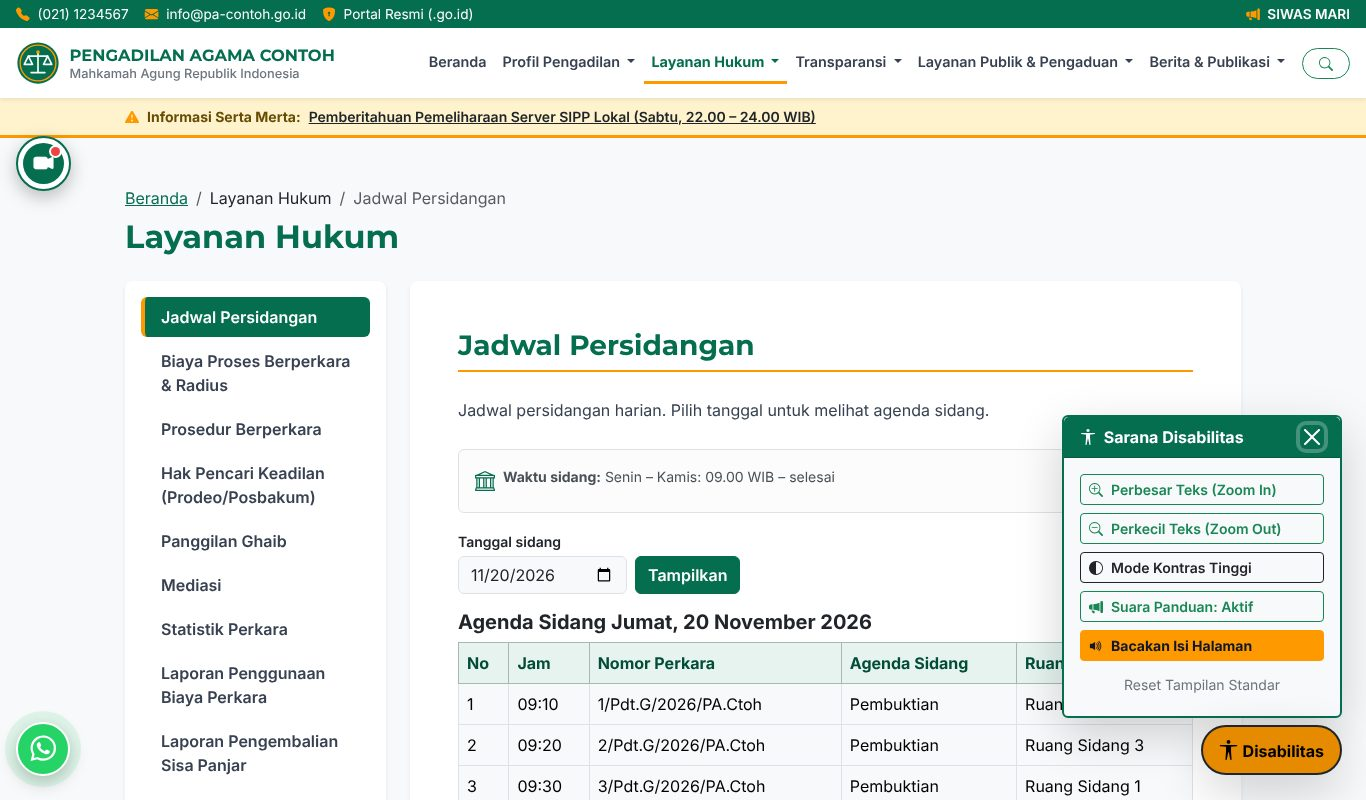
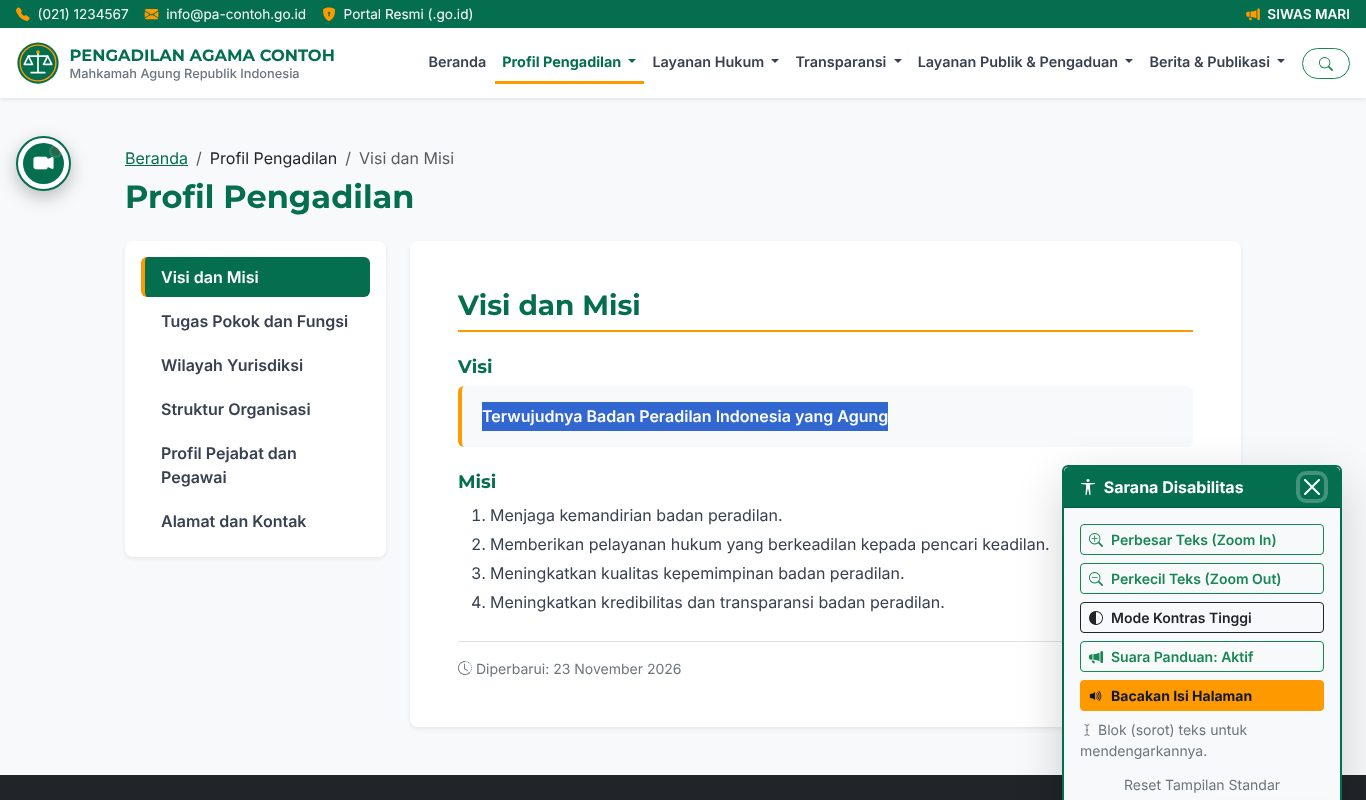
docs(panduan): perbarui manual book — Panggilan Ghaib dua tabel, Integrasi SIPP (relaas, kirim yang berubah, Task Scheduler), GIF 100 MB, blok teks dibacakan; tangkapan layar baru
Claude-Session: https://claude.ai/code/session_01A5ktk2fXRbeWj4BHQvZnb4

diff --git a/app/Views/admin/guide.php b/app/Views/admin/guide.php
@@ -401,10 +401,20 @@ $site = esc(setting('site_name', 'Pengadilan Agama'));
         </tbody>
     </table></div>
     <?= $img('09-arsip-dokumen.jpg', 'Daftar Arsip Dokumen dengan pencarian dan saringan jenis.') ?>
+    <h3 id="panggilan-ghaib">Panggilan Ghaib</h3>
+    <p>Halaman Panggilan Ghaib menampilkan dua tabel:</p>
+    <ol>
+        <li><strong>Panggilan Sidang (Perkara Belum Putus)</strong>: nama pihak, nomor perkara, tanggal sidang, dan tombol <em>Lihat Relaas (PDF)</em>. Baris otomatis tidak tampil 7 hari setelah tanggal sidang.</li>
+        <li><strong>Perkara Ghaib yang Sudah Putus</strong>: perkara yang sudah diputus, dengan tanggal putus dan relaasnya, tampil selama 1 tahun sejak tanggal putus. Tabel ini hanya muncul bila ada isinya.</li>
+    </ol>
+    <?= $img('13-panggilan-ghaib.jpg', 'Halaman Panggilan Ghaib: tabel panggilan sidang dan tabel perkara yang sudah putus.') ?>
+    <p>Mengisi manual: <em>Kepaniteraan → Panggilan Ghaib → Tambah</em>. Isi nama pihak, nomor perkara, tanggal sidang, dan unggah relaas PDF. Bila perkara sudah diputus, isi <strong>Tanggal Putus</strong>; barisnya pindah ke tabel Sudah Putus dan tidak lagi tampil di blok Pengumuman Beranda.</p>
+    <?= $img('13-ghaib-admin.jpg', 'Form Panggilan Ghaib dengan isian Tanggal Putus.') ?>
+    <?= $tip('Bila Integrasi SIPP aktif, perkara ghaib (belum putus maupun sudah putus) beserta relaasnya terisi otomatis dari SIPP. Lihat <a href="#integrasi-sipp">Integrasi SIPP</a>. Relaas yang Anda unggah manual tidak pernah ditimpa.') ?>
     <ul>
-        <li>PDF maks. <strong>20 MB</strong>, gambar maks. 8 MB. Berkas lebih besar: pakai <strong>Tautan Luar</strong> Google Drive.</li>
+        <li>PDF maks. <strong>20 MB</strong>, gambar JPG/PNG/WebP maks. 8 MB, GIF bergerak maks. 100 MB. Berkas lebih besar: pakai <strong>Tautan Luar</strong> Google Drive.</li>
         <li>Laporan bulanan wajib diisi <strong>Bulan</strong>; dokumen 5 tahunan diisi setiap tahun.</li>
-        <li>Jadwal sidang bisa diambil dari database SIPP (Pengaturan → Tautan Layanan).</li>
+        <li>Jadwal sidang, statistik perkara, dan panggilan ghaib bisa terisi otomatis dari SIPP (<a href="#integrasi-sipp">Integrasi SIPP</a>).</li>
         <li>Pengaduan/hukuman disiplin memakai <strong>inisial</strong>.</li>
     </ul>
     <?= $go('data/dokumen', 'Buka Arsip Dokumen') ?>
@@ -451,6 +461,7 @@ $site = esc(setting('site_name', 'Pengadilan Agama'));
             <tr><td>Panggilan ghaib (belum putus &amp; sudah putus)</td><td>Menu & halaman Panggilan Ghaib serta blok Pengumuman. Perkara yang sudah putus pindah ke tabel <em>Perkara Ghaib yang Sudah Putus</em> (tampil 1 tahun sejak tanggal putus). <strong>Relaas (PDF) terbaru Tergugat/Termohon ikut dikirim</strong> dari folder dokumen SIPP dan tampil sebagai tombol <em>Lihat Relaas (PDF)</em>.</td></tr>
         </tbody>
     </table></div>
+    <?= $img('14-integrasi-sipp.jpg', 'Tab Integrasi SIPP: unduh aplikasi kantor, pilihan data otomatis, dan tabel Kiriman terakhir.') ?>
     <h4 class="h6 fw-bold mt-3">Memasang (cara termudah)</h4>
     <ol>
         <li>Website: <em>Sistem → Pengaturan → Integrasi SIPP</em> (Super Admin) → klik <strong>Unduh SIPP API Kantor</strong>. Paket zip yang terunduh <strong>sudah berisi alamat &amp; kunci website ini</strong>, dan Integrasi SIPP otomatis diaktifkan.</li>
@@ -460,6 +471,14 @@ $site = esc(setting('site_name', 'Pengadilan Agama'));
         <li>Aplikasi kantor <strong>hanya mengirim data yang berubah atau baru</strong>. Data yang tidak berubah tetap dikirim ulang setiap 6 jam sebagai tanda aplikasi masih berjalan; tombol <em>Kirim ulang semua</em> di dashboard kantor mengirim semuanya sekarang.</li>
         <li>Kembali ke website: tabel <strong>Kiriman terakhir</strong> di tab Integrasi SIPP menampilkan waktu diterima dan jumlah data.</li>
     </ol>
+    <?= $img('14-sipp-kantor.jpg', 'Dashboard SIPP API Kantor: hanya data yang berubah yang dikirim.') ?>
+    <h4 class="h6 fw-bold mt-3">Pengiriman otomatis tanpa membuka browser (disarankan)</h4>
+    <p>Menu <em>Mode Otomatis</em> hanya berjalan selama tab browsernya terbuka. Agar pengiriman tetap berjalan walau tidak ada yang login, jadwalkan <code>kirim.php</code> di server kantor. Perintah lengkapnya (sudah berisi lokasi PHP dan aplikasi di server itu) ada di <em>Mode Otomatis → Ingin berjalan otomatis tanpa membuka halaman?</em></p>
+    <ul>
+        <li><strong>Windows</strong>: buka Command Prompt <em>sebagai Administrator</em>, tempel perintah <code>schtasks /Create /TN "SIPP API Kantor" /SC MINUTE /MO 5 …</code> sekali saja. Tugas berjalan tiap 5 menit, juga setelah server dinyalakan ulang.</li>
+        <li><strong>Linux</strong>: tambahkan baris cron <code>*/5 * * * * php /var/www/html/sipp-api-kantor/kirim.php</code>.</li>
+        <li>Server kantor tidak memerlukan IP publik: kantor yang mengirim ke website, bukan website yang mengambil.</li>
+    </ul>
     <p class="small">Sudah memasang aplikasi kantor sebelumnya? Di dashboard kantor buka <em>Pengaturan → Website satker</em>, klik <strong>Salin</strong>, lalu tempel teksnya di kotak <strong>Tempel kunci</strong> pada tab Integrasi SIPP dan Simpan.</p>
     <h4 class="h6 fw-bold mt-3">Relaas panggilan ghaib otomatis</h4>
     <ul>
@@ -555,6 +574,10 @@ $site = esc(setting('site_name', 'Pengadilan Agama'));
             ['Banner ucapan tidak tampil di Beranda', 'Pastikan banner berstatus Tampilkan, jenisnya sesuai dengan pilihan <em>Kolom yang ditampilkan</em> di tampilan Beranda, dan termasuk yang terbaru sesuai <em>Banner per kolom</em>.'],
             ['Impor WordPress: "Kategori tidak ditemukan" atau jalur data ditutup', 'Gunakan tombol <strong>Ambil daftar kategori</strong> agar alamat kategori tepat. Bila REST API ditutup, minta pengelola website lama membukanya sementara.'],
             ['Data SIPP tidak muncul di website', 'Buka <em>Pengaturan → Integrasi SIPP</em>: pastikan <strong>Pakai data kiriman SIPP API kantor</strong> = Ya, kunci berstatus tersimpan, dan tabel Kiriman terakhir terisi. Bila belum ada kiriman, klik Kirim Semua Data Sekarang di dashboard kantor dan baca pesan galatnya.'],
+            ['Kolom Dokumen Relaas Panggilan Ghaib masih "-"', 'Relaas dikirim otomatis bila berkasnya sudah diunggah di SIPP. Pastikan Dashboard → <strong>Jalankan pembaruan</strong> sudah diklik, aplikasi kantor versi terbaru, dan dashboard kantor tidak menulis <em>folder dokumen SIPP tidak ditemukan</em>. Relaas di atas batas hosting dilewati (lihat pesan di dashboard kantor).'],
+            ['Dashboard kantor menulis "Tidak ada perubahan, tidak dikirim"', 'Itu normal: data sama dengan kiriman terakhir. Klik <strong>Kirim ulang semua</strong> bila ingin mengirim paksa.'],
+            ['GIF ditolak "mengandung kode yang tidak diperbolehkan"', 'Perbarui website (Update Website). GIF sah tidak lagi ditolak; yang ditolak hanya GIF yang disisipi kode program.'],
+            ['Pengiriman SIPP berhenti saat komputer/browser ditutup', 'Mode Otomatis butuh tab yang terbuka. Jadwalkan <code>kirim.php</code> dengan Task Scheduler/cron (lihat <a href="#integrasi-sipp">Integrasi SIPP</a>).'],
             ['Kartu Pintasan hanya 2 per baris', 'Atur <em>Kartu per baris</em> di tampilan Pintasan Layanan, perlebar kotak tampilannya, lalu tekan Ctrl+F5.'],
         ];
         foreach ($faq as $i => [$q, $a]): ?>

diff --git a/app/Controllers/Admin/Settings.php b/app/Controllers/Admin/Settings.php
@@ -57,7 +57,7 @@ class Settings extends AdminController
                 'sipp_api_aktif'     => ['Pakai data kiriman SIPP API kantor', 'select', 'Jadwal Sidang (halaman & Beranda), Statistik Perkara, dan Panggilan Ghaib diisi otomatis dari data yang dikirim aplikasi SIPP API di server kantor. Input manual tetap dipakai sebagai cadangan.', ['0' => 'Tidak', '1' => 'Ya']],
                 'sipp_api_tempel'    => ['Tempel kunci dari dashboard SIPP API kantor', 'textarea', 'Di dashboard SIPP API kantor: Pengaturan → Website satker → klik Salin, lalu tempel seluruh teksnya di sini dan Simpan. Kosongkan bila tidak ingin mengganti kunci. Kunci yang tersimpan tidak ditampilkan lagi.'],
                 'sipp_api_statistik' => ['Isi Statistik Perkara otomatis', 'select', 'Data per bulan tahun berjalan dari SIPP menimpa isian Statistik Perkara bulan yang sama.', ['1' => 'Ya', '0' => 'Tidak']],
-                'sipp_api_ghaib'     => ['Isi Panggilan Ghaib otomatis', 'select', 'Perkara ghaib yang belum putus beserta tanggal sidang berikutnya ditambahkan ke Panggilan Ghaib.', ['1' => 'Ya', '0' => 'Tidak']],
+                'sipp_api_ghaib'     => ['Isi Panggilan Ghaib otomatis', 'select', 'Perkara ghaib yang belum putus (dengan tanggal sidang berikutnya) dan yang sudah putus 1 tahun terakhir (tabel Sudah Putus) ditambahkan ke Panggilan Ghaib.', ['1' => 'Ya', '0' => 'Tidak']],
                 'sipp_api_relaas'    => ['Relaas (PDF) ikut dikirim otomatis', 'select', 'Relaas terbaru Tergugat/Termohon di SIPP dipasang ke Panggilan Ghaib. Relaas yang diunggah manual tidak pernah ditimpa.', ['1' => 'Ya', '0' => 'Tidak']],
                 'sipp_sync'          => ['Cara lain: baca langsung database SIPP', 'select', 'Hanya bila website satu jaringan dengan server SIPP (bukan hosting). Butuh koneksi database grup "sipp" di .env dan query di app/Config/Sipp.php.', ['0' => 'Tidak (disarankan untuk hosting)', '1' => 'Ya']],
             ]],

diff --git a/deploy/sipp-api-kantor/index.php b/deploy/sipp-api-kantor/index.php
@@ -369,9 +369,17 @@ $alamatWeb = preg_replace('#/api/sipp/terima$#', '', $CONFIG['website']['url']);
     <div id="logOtomatis"></div>
     <details>
       <summary>Ingin berjalan otomatis tanpa membuka halaman? (untuk teknisi)</summary>
-      <p>Jadwalkan perintah ini di server (cron Linux / Task Scheduler Windows), misalnya tiap 15 menit:</p>
+      <p>Jadwalkan perintah ini di server (cron Linux / Task Scheduler Windows), misalnya tiap 5 menit:</p>
       <pre>php <?php echo e(dirname(__FILE__) . DIRECTORY_SEPARATOR . 'kirim.php'); ?></pre>
-      <p>Contoh cron: <code>*/15 * * * * php <?php echo e(dirname(__FILE__) . '/kirim.php'); ?> &gt;/dev/null 2&gt;&amp;1</code></p>
+      <p>Contoh cron: <code>*/5 * * * * php <?php echo e(dirname(__FILE__) . '/kirim.php'); ?> &gt;/dev/null 2&gt;&amp;1</code></p>
+      <?php // php.exe untuk perintah terjadwal (di web server PHP_BINARY bisa berisi httpd.exe)
+        $phpExe = 'C:\\xampp\\php\\php.exe';
+        if (defined('PHP_BINARY') && PHP_BINARY != '' && preg_match('/php[0-9.]*(\.exe)?$/i', PHP_BINARY)) $phpExe = PHP_BINARY;
+        elseif (defined('PHP_BINDIR') && is_file(PHP_BINDIR . '/php.exe')) $phpExe = PHP_BINDIR . '/php.exe';
+        elseif (defined('PHP_BINDIR') && is_file(PHP_BINDIR . '/php')) $phpExe = PHP_BINDIR . '/php'; ?>
+      <p>Windows (jalankan di Command Prompt <b>sebagai Administrator</b>, sekali saja; tetap berjalan walau tidak ada yang login):</p>
+      <pre>schtasks /Create /TN "SIPP API Kantor" /SC MINUTE /MO 5 /RU SYSTEM /F /TR "\"<?php echo e(str_replace('/', '\\', $phpExe)); ?>\" \"<?php echo e(str_replace('/', '\\', dirname(__FILE__) . '/kirim.php')); ?>\""</pre>
+      <p>Karena hanya data yang berubah yang dikirim, jadwal tiap 5 menit tidak membebani koneksi.</p>
     </details>
   </div>
   <script>

diff --git a/app/Views/admin/settings.php b/app/Views/admin/settings.php
@@ -28,7 +28,7 @@
                     <ol class="small mb-0 mt-1">
                         <li>Ekstrak, salin folder <code>sipp-api-kantor</code> ke web root server kantor (mis. <code>C:\xampp\htdocs\</code>).</li>
                         <li>Buka <code>http://IP-SERVER/sipp-api-kantor/</code>, buat password dashboard.</li>
-                        <li>Klik <strong>Kirim Semua Data Sekarang</strong>, lalu aktifkan <strong>Mode Otomatis</strong>. Data yang diterima tampil di tabel <em>Kiriman terakhir</em> di bawah.</li>
+                        <li>Klik <strong>Kirim Semua Data Sekarang</strong>, lalu jadwalkan pengiriman otomatis (Task Scheduler / cron, atau menu <strong>Mode Otomatis</strong>). Hanya data yang berubah yang dikirim. Data yang diterima tampil di tabel <em>Kiriman terakhir</em> di bawah.</li>
                     </ol>
                 </div>
                 <a href="<?= admin_url('pengaturan/sipp-kantor') ?>" class="btn btn-pa-primary" download data-reload-after="2500"><i class="bi bi-download" aria-hidden="true"></i> Unduh SIPP API Kantor</a>

diff --git a/app/Views/site/modules/ghaib.php b/app/Views/site/modules/ghaib.php
@@ -6,7 +6,7 @@
         ? '<a href="' . site_url('berkas/' . $r['uuid']) . '" class="btn btn-sm btn-pa-primary" target="_blank" rel="noopener">Lihat Relaas (PDF)<span class="visually-hidden"> perkara ' . esc($r['case_number']) . '</span></a>'
         : '-';
 }; ?>
-<?php if ($putus): ?><h3 class="h5 fw-bold mt-2 mb-3">Panggilan Ghaib</h3><?php endif ?>
+<?php if ($putus): ?><h3 class="h5 fw-bold mt-2 mb-3">Panggilan Sidang (Perkara Belum Putus)</h3><?php endif ?>
 <div class="table-responsive">
     <table class="table table-bordered align-middle">
         <caption class="visually-hidden">Daftar panggilan ghaib perkara yang belum diputus</caption>

diff --git a/deploy/sipp-api-kantor/README.md b/deploy/sipp-api-kantor/README.md
@@ -55,7 +55,10 @@ belum memilikinya.
 ### Pengiriman otomatis
 - **Cara mudah:** menu **Mode Otomatis**, pilih interval, klik **Mulai**, dan biarkan tab itu terbuka di komputer
   kantor yang selalu menyala.
-- **Cara teknisi:** jadwalkan `php kirim.php` lewat cron / Task Scheduler (perintah lengkap ada di halaman Mode Otomatis).
+- **Cara disarankan (tanpa browser):** jadwalkan `php kirim.php` tiap 5 menit. Perintah lengkap ada di halaman
+  Mode Otomatis. Windows (Command Prompt sebagai Administrator, sekali saja):
+  `schtasks /Create /TN "SIPP API Kantor" /SC MINUTE /MO 5 /RU SYSTEM /F /TR "\"C:\xampp\php\php.exe\" \"C:\xampp\htdocs\sipp-api-kantor\kirim.php\""`.
+  Linux: `*/5 * * * * php /var/www/html/sipp-api-kantor/kirim.php`. Server kantor tidak perlu IP publik.
 
 **Menyimpan pengaturan secara permanen:** jika folder `data/` bisa ditulis, pengaturan langsung tersimpan di sana.
 Jika tidak, muncul kotak **"Satu langkah lagi"** dengan tombol **Unduh config.php**. Salin file itu ke folder aplikasi
